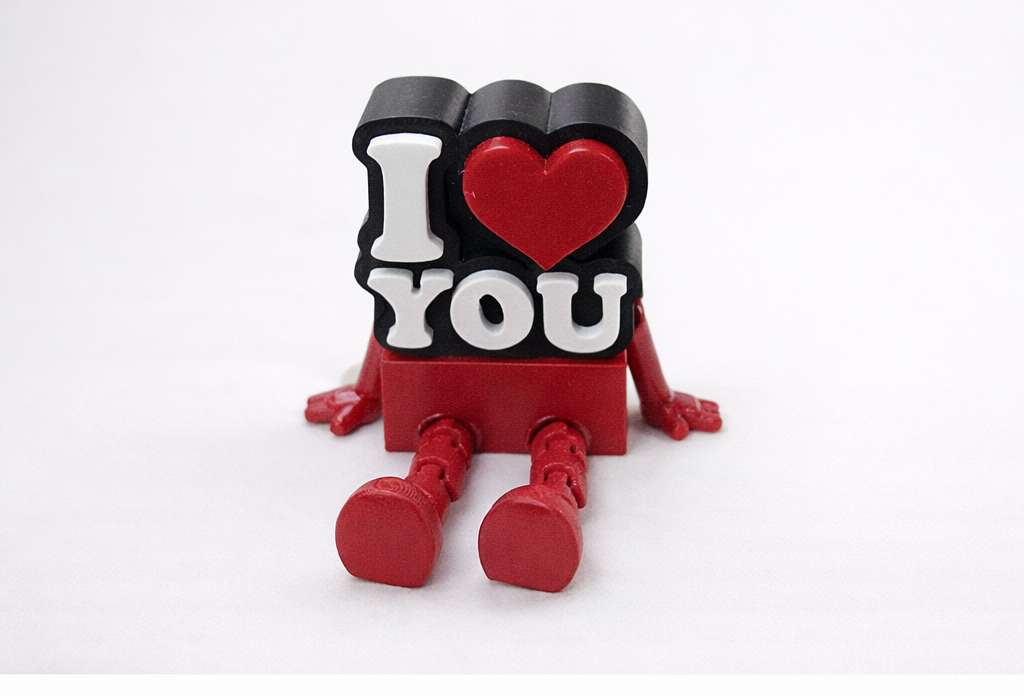
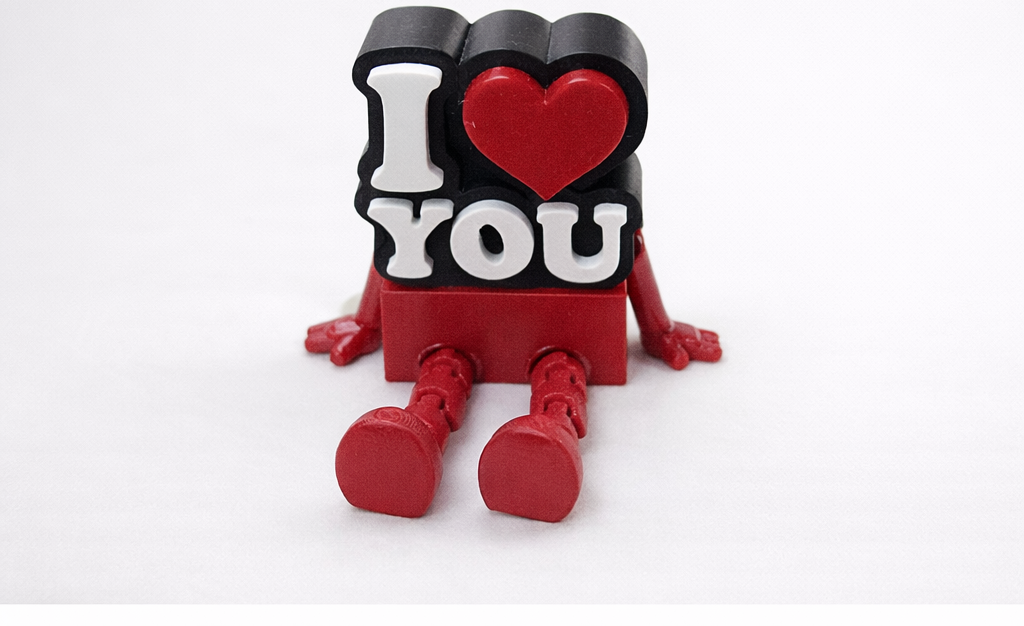
Clean up cropped product images

Changed region(s): [[0.2812, 0.0, 0.7188, 0.8802]]

diff --git a/shop.html b/shop.html
@@ -66,10 +66,10 @@
             <section class="featured-gift-card fade-up" aria-labelledby="featured-gift-title">
                 <div class="featured-gift-media">
                     <div class="featured-gift-photo">
-                        <img src="assets/geometric-spinner-feature.png?v=20260330n" alt="Dual-color star fidget with a silky pink and blue finish">
+                        <img src="assets/star-fidget.jpg?v=20260330v" alt="Dual-color star fidget with a silky pink and blue finish">
                     </div>
                     <div class="featured-gift-preview">
-                        <video autoplay muted loop playsinline poster="assets/geometric-spinner-feature.png?v=20260330n" aria-label="Looping preview of the dual-color star fidget opening and moving">
+                        <video autoplay muted loop playsinline poster="assets/star-fidget.jpg?v=20260330v" aria-label="Looping preview of the dual-color star fidget opening and moving">
                             <source src="assets/star-fidget-preview.mp4" type="video/mp4">
                         </video>
                         <p class="featured-gift-preview-label">Looping preview</p>
@@ -97,7 +97,7 @@
                 <!-- Squishy Fidgets -->
                 <div class="product-card fade-up" id="dual-color-star-fidget">
                     <div class="product-photo product-photo-real">
-                        <img src="assets/geometric-spinner-gradient.png?v=20260330k" alt="Dual-color star fidget in pink and blue">
+                        <img src="assets/star-fidget.jpg?v=20260330v" alt="Dual-color star fidget in pink and blue">
                     </div>
                     <div class="product-card-body">
                         <h3 class="product-name">Dual-Color Star Fidget</h3>
@@ -134,7 +134,7 @@
 
                 <div class="product-card fade-up" id="blue-starfish-fidget">
                     <div class="product-photo product-photo-real">
-                        <img src="assets/articulated-starfish-blue.png?v=20260330k" alt="Blue articulated starfish fidget">
+                        <img src="assets/starfish-fidget.jpg?v=20260330v" alt="Blue articulated starfish fidget">
                     </div>
                     <div class="product-card-body">
                         <h3 class="product-name">Blue Starfish Fidget</h3>
@@ -283,7 +283,7 @@
 
                 <div class="product-card fade-up">
                     <div class="product-photo product-photo-real">
-                        <img src="assets/kids-toothbrush-holder-smiley-tooth.png?v=20260330k" alt="White smiley tooth kids toothbrush holder">
+                        <img src="assets/kids-toothbrush-holder-smiley-tooth.png?v=20260330v" alt="White smiley tooth kids toothbrush holder">
                     </div>
                     <div class="product-card-body">
                         <h3 class="product-name">Kids Toothbrush Holder</h3>
@@ -299,7 +299,7 @@
 
                 <div class="product-card fade-up" id="balloon-dog">
                     <div class="product-photo product-photo-real">
-                        <img src="assets/balloon-dog-orange.png?v=20260330k" alt="Orange balloon dog decor figure">
+                        <img src="assets/balloon-dog.jpg?v=20260330v" alt="Orange balloon dog decor figure">
                     </div>
                     <div class="product-card-body">
                         <h3 class="product-name">Balloon Dog</h3>
@@ -398,7 +398,7 @@
 
                 <div class="product-card fade-up">
                     <div class="product-photo product-photo-real">
-                        <img src="assets/articulated-i-love-you-sitting-figure.png?v=20260330k" alt="Red and black I Love You sitting figure">
+                        <img src="assets/articulated-i-love-you-sitting-figure.png?v=20260330v" alt="Red and black I Love You sitting figure">
                     </div>
                     <div class="product-card-body">
                         <h3 class="product-name">I Love You Sitting Figure</h3>
